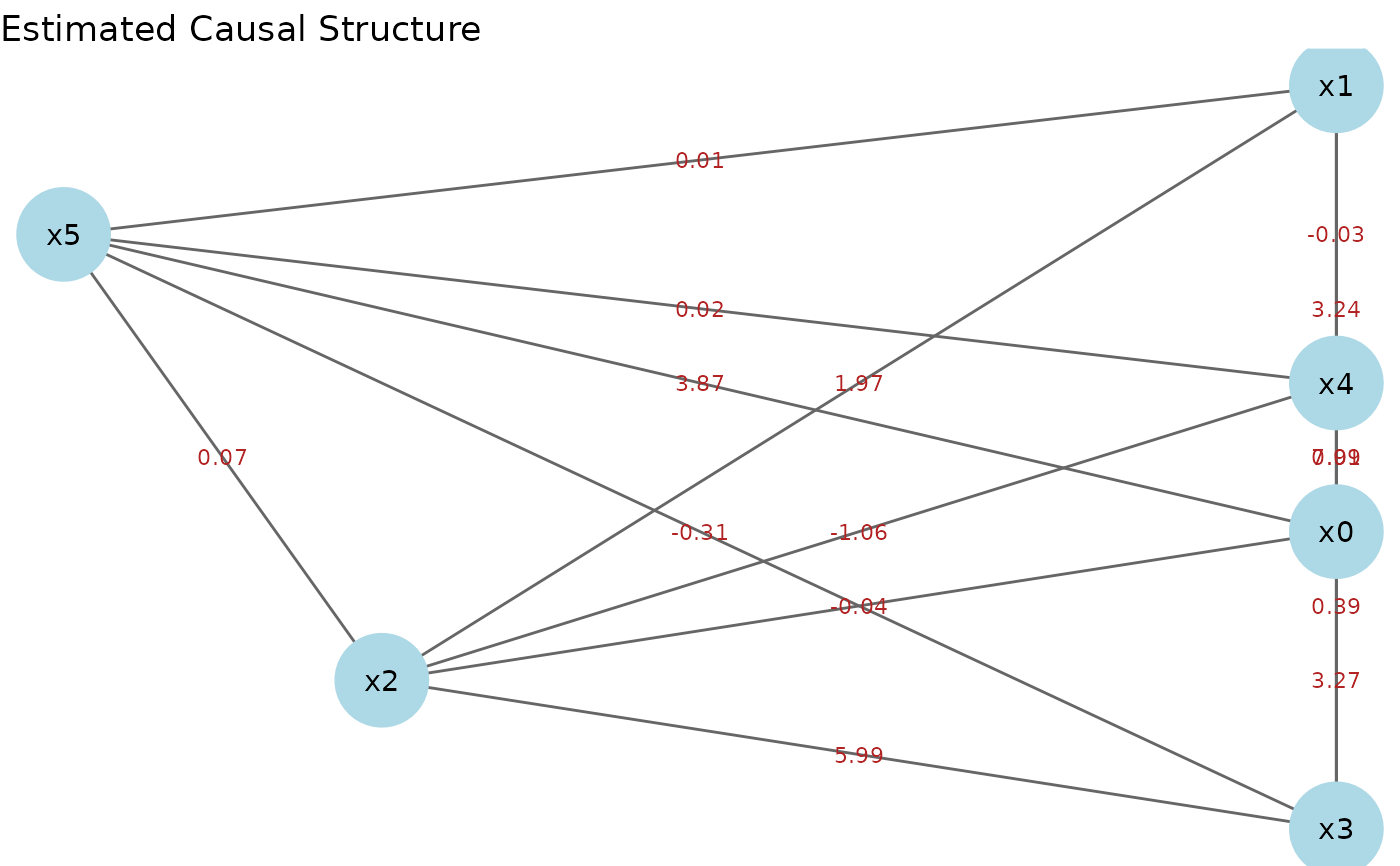
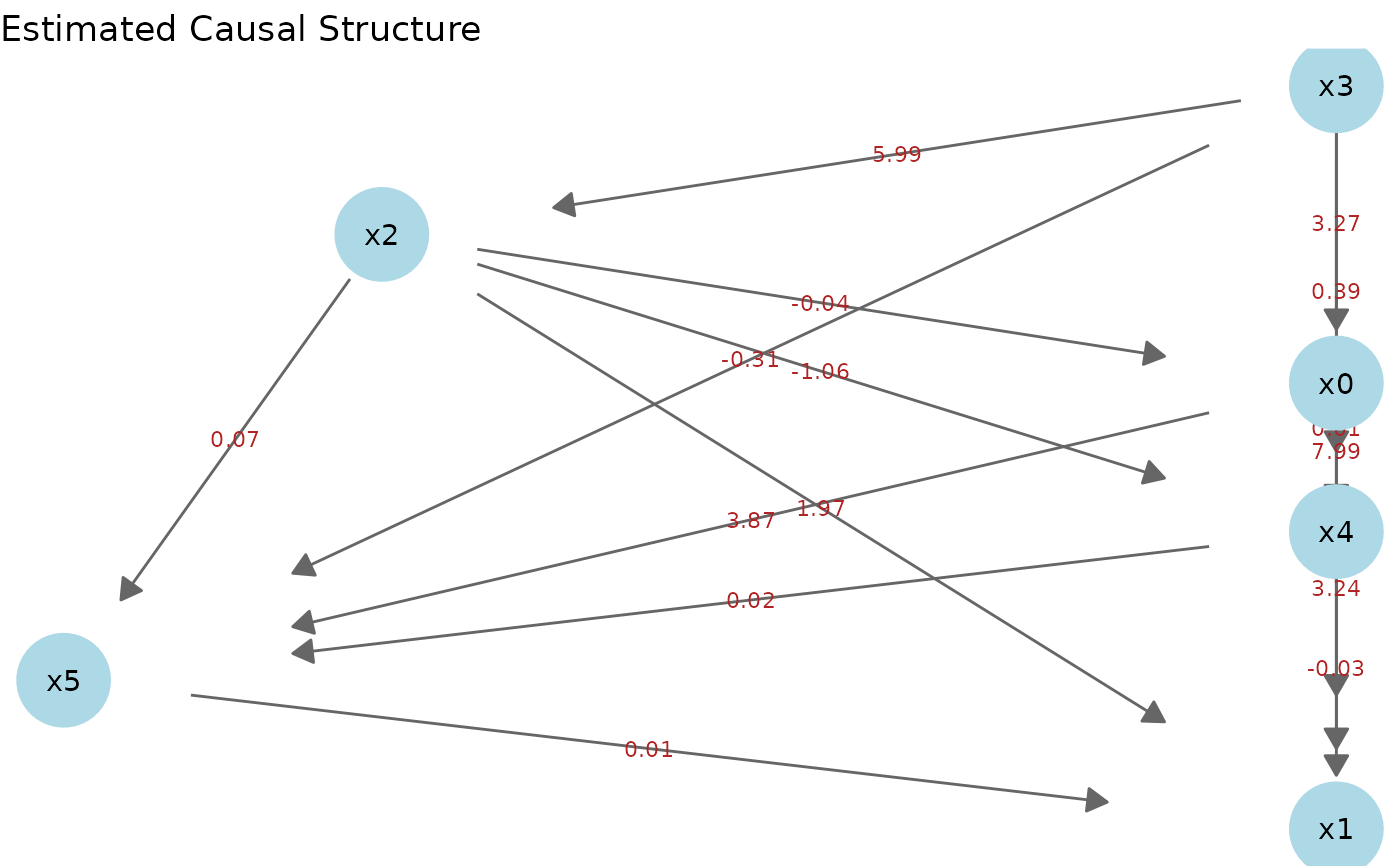
Deploying to gh-pages from @ morimotoosamu/lingamr@1fc468b402428adf7c09bd1bc868026bf8bd2ea4 🚀

diff --git a/articles/lingamr.html b/articles/lingamr.html
@@ -882,7 +882,7 @@ method.</p>
 <span><span class="co">#&gt;   iteration 80 / 100</span></span>
 <span><span class="co">#&gt;   iteration 90 / 100</span></span>
 <span><span class="co">#&gt;   iteration 100 / 100</span></span>
-<span><span class="co">#&gt; Completed in 3.2 seconds.</span></span>
+<span><span class="co">#&gt; Completed in 3.4 seconds.</span></span>
 <span></span>
 <span><span class="va">bs_model</span></span>
 <span><span class="co">#&gt; BootstrapResult: 100 samplings, 6 features</span></span></code></pre></div>
@@ -1279,8 +1279,8 @@ grows by a factor of
 <span>  <span class="va">t15</span><span class="op">[</span><span class="st">"elapsed"</span><span class="op">]</span> <span class="op">/</span> <span class="fu"><a href="https://rdrr.io/r/base/Extremes.html" class="external-link">max</a></span><span class="op">(</span><span class="va">t10</span><span class="op">[</span><span class="st">"elapsed"</span><span class="op">]</span>, <span class="fl">0.01</span><span class="op">)</span></span>
 <span><span class="op">)</span><span class="op">)</span></span>
 <span><span class="co">#&gt; p = 10 : 0.03 sec</span></span>
-<span><span class="co">#&gt; p = 15 : 0.05 sec</span></span>
-<span><span class="co">#&gt; theoretical factor 3.4x vs. observed 2.1x</span></span></code></pre></div>
+<span><span class="co">#&gt; p = 15 : 0.06 sec</span></span>
+<span><span class="co">#&gt; theoretical factor 3.4x vs. observed 2.2x</span></span></code></pre></div>
 <p>We run ICA-LiNGAM on the same data to compare speed directly.</p>
 <div class="sourceCode" id="cb42"><pre class="downlit sourceCode r">
 <code class="sourceCode R"><span><span class="va">t10_ica</span> <span class="op">&lt;-</span> <span class="fu"><a href="https://rdrr.io/r/base/system.time.html" class="external-link">system.time</a></span><span class="op">(</span><span class="op">{</span> <span class="fu">pcalg</span><span class="fu">::</span><span class="fu"><a href="https://rdrr.io/pkg/pcalg/man/LINGAM.html" class="external-link">lingam</a></span><span class="op">(</span><span class="fu"><a href="https://rdrr.io/r/base/matrix.html" class="external-link">as.matrix</a></span><span class="op">(</span><span class="va">d10</span><span class="op">$</span><span class="va">data</span><span class="op">)</span><span class="op">)</span> <span class="op">}</span><span class="op">)</span></span>
@@ -1292,8 +1292,8 @@ grows by a factor of
 <span>  <span class="va">t10_ica</span><span class="op">[</span><span class="st">"elapsed"</span><span class="op">]</span>, <span class="va">t15_ica</span><span class="op">[</span><span class="st">"elapsed"</span><span class="op">]</span></span>
 <span><span class="op">)</span><span class="op">)</span></span>
 <span><span class="co">#&gt;               p = 10   p = 15</span></span>
-<span><span class="co">#&gt; Direct LiNGAM :  0.03 sec   0.05 sec</span></span>
-<span><span class="co">#&gt; ICA-LiNGAM    :  0.02 sec   0.03 sec</span></span></code></pre></div>
+<span><span class="co">#&gt; Direct LiNGAM :  0.03 sec   0.06 sec</span></span>
+<span><span class="co">#&gt; ICA-LiNGAM    :  0.01 sec   0.03 sec</span></span></code></pre></div>
 <p>The larger
 <math display="inline" xmlns="http://www.w3.org/1998/Math/MathML"><semantics><mi>p</mi><annotation encoding="application/x-tex">p</annotation></semantics></math>
 becomes, the more Direct LiNGAM’s
@@ -1435,7 +1435,7 @@ or is systematic.</p>
 <span><span class="co">#&gt;   iteration 80 / 100</span></span>
 <span><span class="co">#&gt;   iteration 90 / 100</span></span>
 <span><span class="co">#&gt;   iteration 100 / 100</span></span>
-<span><span class="co">#&gt; Completed in 1.5 seconds.</span></span>
+<span><span class="co">#&gt; Completed in 1.4 seconds.</span></span>
 <span></span>
 <span><span class="co"># Occurrence probability of each direction (row = to, column = from)</span></span>
 <span><span class="va">bs_paradox</span> <span class="op">|&gt;</span></span>

diff --git a/reference/lingam_direct_bootstrap.html b/reference/lingam_direct_bootstrap.html
@@ -164,7 +164,7 @@ If you need results that exactly match the sequential version, use
 <span class="r-msg co"><span class="r-pr">#&gt;</span>   iteration 10 / 30</span>
 <span class="r-msg co"><span class="r-pr">#&gt;</span>   iteration 20 / 30</span>
 <span class="r-msg co"><span class="r-pr">#&gt;</span>   iteration 30 / 30</span>
-<span class="r-msg co"><span class="r-pr">#&gt;</span> Completed in 1.0 seconds.</span>
+<span class="r-msg co"><span class="r-pr">#&gt;</span> Completed in 0.9 seconds.</span>
 <span class="r-in"><span></span></span>
 <span class="r-in"><span><span class="co"># Parallel execution on 2 cores</span></span></span>
 <span class="r-in"><span><span class="va">bs_par</span> <span class="op">&lt;-</span> <span class="fu">lingam_direct_bootstrap</span><span class="op">(</span><span class="va">LiNGAM_sample_1000</span><span class="op">$</span><span class="va">data</span>,</span></span>
@@ -174,7 +174,7 @@ If you need results that exactly match the sequential version, use
 <span class="r-in"><span>  n_cores <span class="op">=</span> <span class="fl">2L</span></span></span>
 <span class="r-in"><span><span class="op">)</span></span></span>
 <span class="r-msg co"><span class="r-pr">#&gt;</span> Bootstrap: 30 iterations, method=adaptive_lasso (parallel, 2 cores)</span>
-<span class="r-msg co"><span class="r-pr">#&gt;</span> Completed in 2.2 seconds.</span>
+<span class="r-msg co"><span class="r-pr">#&gt;</span> Completed in 2.4 seconds.</span>
 <span class="r-in"><span><span class="co"># }</span></span></span>
 </code></pre></div>
     </div>

diff --git a/reference/print.BootstrapResult.html b/reference/print.BootstrapResult.html
@@ -66,7 +66,7 @@
 <span class="r-msg co"><span class="r-pr">#&gt;</span>   iteration 10 / 30</span>
 <span class="r-msg co"><span class="r-pr">#&gt;</span>   iteration 20 / 30</span>
 <span class="r-msg co"><span class="r-pr">#&gt;</span>   iteration 30 / 30</span>
-<span class="r-msg co"><span class="r-pr">#&gt;</span> Completed in 1.1 seconds.</span>
+<span class="r-msg co"><span class="r-pr">#&gt;</span> Completed in 0.9 seconds.</span>
 <span class="r-in"><span></span></span>
 <span class="r-in"><span><span class="fu"><a href="https://rdrr.io/r/base/print.html" class="external-link">print</a></span><span class="op">(</span><span class="va">bs_model</span><span class="op">)</span></span></span>
 <span class="r-out co"><span class="r-pr">#&gt;</span> BootstrapResult: 30 samplings, 6 features</span>

diff --git a/reference/tidy.BootstrapResult.html b/reference/tidy.BootstrapResult.html
@@ -76,7 +76,7 @@ so that function's arguments can be passed through <code>...</code>.</p>
 <span class="r-msg co"><span class="r-pr">#&gt;</span>   iteration 10 / 30</span>
 <span class="r-msg co"><span class="r-pr">#&gt;</span>   iteration 20 / 30</span>
 <span class="r-msg co"><span class="r-pr">#&gt;</span>   iteration 30 / 30</span>
-<span class="r-msg co"><span class="r-pr">#&gt;</span> Completed in 0.9 seconds.</span>
+<span class="r-msg co"><span class="r-pr">#&gt;</span> Completed in 1.0 seconds.</span>
 <span class="r-in"><span><span class="fu"><a href="https://generics.r-lib.org/reference/tidy.html" class="external-link">tidy</a></span><span class="op">(</span><span class="va">bs</span><span class="op">)</span></span></span>
 <span class="r-out co"><span class="r-pr">#&gt;</span>    from to count proportion mean_effect median_effect   sd_effect    ci_lower</span>
 <span class="r-out co"><span class="r-pr">#&gt;</span> 1     1  6    30 1.00000000  4.02010918    4.01886128 0.009510235  4.00298581</span>

diff --git a/articles/lingamr.md b/articles/lingamr.md
@@ -682,7 +682,7 @@ bs_model <- x1k$data |>
 #>   iteration 80 / 100
 #>   iteration 90 / 100
 #>   iteration 100 / 100
-#> Completed in 3.2 seconds.
+#> Completed in 3.4 seconds.
 
 bs_model
 #> BootstrapResult: 100 samplings, 6 features
@@ -1105,8 +1105,8 @@ cat(sprintf(
   t15["elapsed"] / max(t10["elapsed"], 0.01)
 ))
 #> p = 10 : 0.03 sec
-#> p = 15 : 0.05 sec
-#> theoretical factor 3.4x vs. observed 2.1x
+#> p = 15 : 0.06 sec
+#> theoretical factor 3.4x vs. observed 2.2x
 ```
 
 We run ICA-LiNGAM on the same data to compare speed directly.
@@ -1122,8 +1122,8 @@ cat(sprintf(
   t10_ica["elapsed"], t15_ica["elapsed"]
 ))
 #>               p = 10   p = 15
-#> Direct LiNGAM :  0.03 sec   0.05 sec
-#> ICA-LiNGAM    :  0.02 sec   0.03 sec
+#> Direct LiNGAM :  0.03 sec   0.06 sec
+#> ICA-LiNGAM    :  0.01 sec   0.03 sec
 ```
 
 The larger $`p`$ becomes, the more Direct LiNGAM’s $`O(p^3)`$ cost
@@ -1282,7 +1282,7 @@ bs_paradox <- paradox$data |>
 #>   iteration 80 / 100
 #>   iteration 90 / 100
 #>   iteration 100 / 100
-#> Completed in 1.5 seconds.
+#> Completed in 1.4 seconds.
 
 # Occurrence probability of each direction (row = to, column = from)
 bs_paradox |>

diff --git a/reference/lingam_direct_bootstrap.md b/reference/lingam_direct_bootstrap.md
@@ -132,7 +132,7 @@ bs_lasso <- lingam_direct_bootstrap(LiNGAM_sample_1000$data,
 #>   iteration 10 / 30
 #>   iteration 20 / 30
 #>   iteration 30 / 30
-#> Completed in 1.0 seconds.
+#> Completed in 0.9 seconds.
 
 # Parallel execution on 2 cores
 bs_par <- lingam_direct_bootstrap(LiNGAM_sample_1000$data,
@@ -142,6 +142,6 @@ bs_par <- lingam_direct_bootstrap(LiNGAM_sample_1000$data,
   n_cores = 2L
 )
 #> Bootstrap: 30 iterations, method=adaptive_lasso (parallel, 2 cores)
-#> Completed in 2.2 seconds.
+#> Completed in 2.4 seconds.
 # }
 ```

diff --git a/reference/print.BootstrapResult.md b/reference/print.BootstrapResult.md
@@ -30,7 +30,7 @@ bs_model <- lingam_direct_bootstrap(LiNGAM_sample_1000$data, n_sampling = 30L, s
 #>   iteration 10 / 30
 #>   iteration 20 / 30
 #>   iteration 30 / 30
-#> Completed in 1.1 seconds.
+#> Completed in 0.9 seconds.
 
 print(bs_model)
 #> BootstrapResult: 30 samplings, 6 features

diff --git a/reference/tidy.BootstrapResult.md b/reference/tidy.BootstrapResult.md
@@ -41,7 +41,7 @@ bs <- lingam_direct_bootstrap(dat$data, n_sampling = 30L, seed = 42)
 #>   iteration 10 / 30
 #>   iteration 20 / 30
 #>   iteration 30 / 30
-#> Completed in 0.9 seconds.
+#> Completed in 1.0 seconds.
 tidy(bs)
 #>    from to count proportion mean_effect median_effect   sd_effect    ci_lower
 #> 1     1  6    30 1.00000000  4.02010918    4.01886128 0.009510235  4.00298581